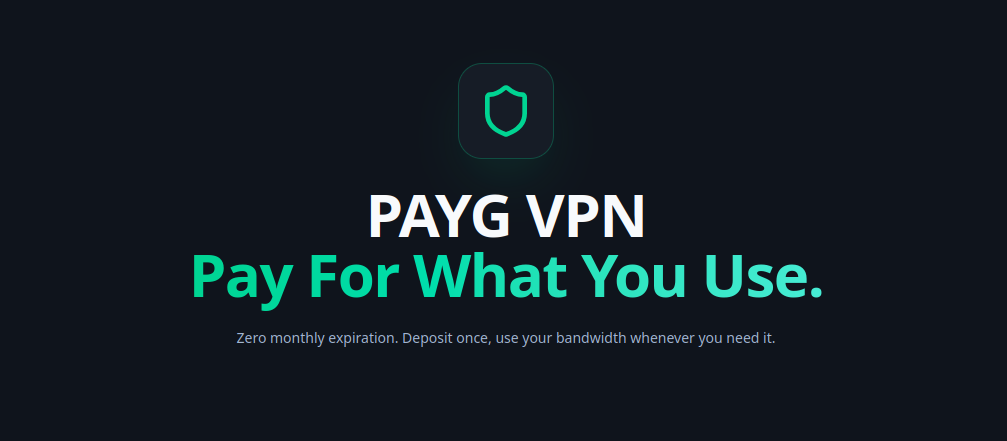
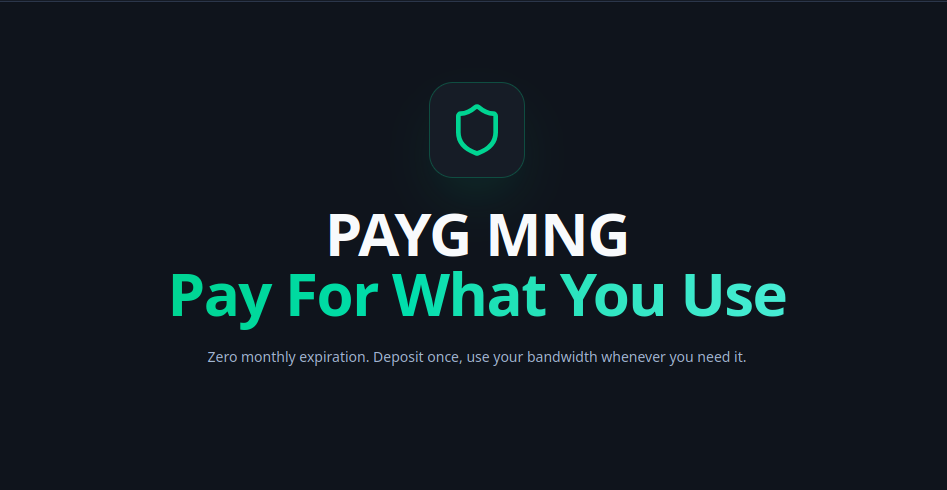
refactor(ui): sanitize naming
Replace branding and circumvention terminology with
Metered Network Gateway (MNG) and traffic routing designations across
portal views, metadata, and i18n dictionaries.

diff --git a/src/pages/Settings.tsx b/src/pages/Settings.tsx
@@ -66,7 +66,7 @@ export function Settings() {
 
   // Settings State
   const [settings, setSettings] = useState<SystemSettings>({
-    brand_name: 'PAYG VPN',
+    brand_name: 'PAYG MNG',
     default_currency: 'IRT',
     default_language: 'en',
     default_theme: 'dark',
@@ -85,7 +85,7 @@ export function Settings() {
     maintenance_message: 'System is undergoing scheduled maintenance.',
     billing_sync_interval: 5,
     xui_request_timeout: 15,
-    bot_username: 'PAYG_VPN_Bot',
+    bot_username: 'PAYG_MNG_Bot',
     bot_token: '',
     notify_seller_settlement: true,
     notify_server_offline: true,
@@ -443,11 +443,11 @@ export function Settings() {
                     </span>
                   </div>
 
-                  {/* Client VPN Status Toggle Cooldown (in Minutes) */}
+                  {/* Client Traffic Routing Status Toggle Cooldown (in Minutes) */}
                   <div className="space-y-1 p-3 bg-zinc-950/60 border border-zinc-850 rounded-xl">
                     <div className="flex items-center justify-between">
                       <label className="text-[11px] font-bold text-zinc-300 block">
-                        Client VPN Toggle Cooldown (Minutes)
+                        Client Traffic Routing Toggle Cooldown (Minutes)
                       </label>
                       <span className="text-[10px] font-mono text-emerald-400">
                         {settings.client_status_cooldown_minutes === 0 ? "0 (Immediate / No Cooldown)" : `${settings.client_status_cooldown_minutes} Min`}
@@ -467,7 +467,7 @@ export function Settings() {
                       placeholder="e.g. 60 (or 0 for immediate)"
                     />
                     <span className="text-[10px] text-zinc-500 block leading-relaxed mt-1">
-                      Duration in minutes a user must wait before toggling their VPN status in Account Settings. Set to <strong>0</strong> to allow clients to deactivate and activate their VPN connections immediately without any cooldown.
+                      Duration in minutes a user must wait before toggling their Traffic Routing status in Account Settings. Set to <strong>0</strong> to allow clients to deactivate and activate their Traffic Routing connections immediately without any cooldown.
                     </span>
                   </div>
 
@@ -620,7 +620,7 @@ export function Settings() {
                       placeholder="e.g. 50 (or 0 to disable)"
                     />
                     <span className="text-[10px] text-zinc-400 block leading-relaxed mt-1">
-                      Disables VPN connections early when client balance drops to <strong>&le; this threshold</strong> (e.g. 50 Toman) to prevent overage debt before delayed 3x-UI sync batches arrive. Remaining balance is preserved in their wallet. Set to <strong>0</strong> to disable.
+                      Disables Traffic Routing connections early when client balance drops to <strong>&le; this threshold</strong> (e.g. 50 Toman) to prevent overage debt before delayed 3x-UI sync batches arrive. Remaining balance is preserved in their wallet. Set to <strong>0</strong> to disable.
                     </span>
                   </div>
 
@@ -1064,7 +1064,7 @@ export function Settings() {
                     <div className="relative">
                       <input 
                         type="text"
-                        placeholder="e.g. PAYG_VPN_Bot (without @)"
+                        placeholder="e.g. PAYG_MNG_Bot (without @)"
                         value={settings.bot_username || ''}
                         onChange={(e) => {
                           const val = e.target.value.trim().replace(/^@/, '');

diff --git a/src/pages/ClientSettings.tsx b/src/pages/ClientSettings.tsx
@@ -146,7 +146,7 @@ export function ClientSettings() {
   };
 
   const handleCopyRevealedKeys = () => {
-    const textToCopy = `PAYG VPN RECOVERY KEYS FOR @${user?.username}\n=============================\n` + 
+    const textToCopy = `PAYG MNG RECOVERY KEYS FOR @${user?.username}\n=============================\n` + 
       revealedKeys.map((k, i) => `${i + 1}. ${k}`).join('\n');
     navigator.clipboard.writeText(textToCopy);
     setKeysCopied(true);
@@ -343,7 +343,7 @@ export function ClientSettings() {
           <div className="flex flex-col sm:flex-row sm:items-center justify-between gap-3">
             <div className="space-y-0.5">
               <span className="text-xs font-semibold text-zinc-300 block uppercase tracking-wider">
-                VPN Routing Status
+                Traffic Routing Routing Status
               </span>
               <div className="flex items-center space-x-2">
                 <span className={cn(
@@ -356,7 +356,7 @@ export function ClientSettings() {
                     "w-1 h-1 rounded-full mr-1.5",
                     !user?.is_self_suspended ? "bg-emerald-500" : "bg-amber-500"
                   )} />
-                  {!user?.is_self_suspended ? 'Active (Routing Enabled)' : 'Paused (VPN Disabled)'}
+                  {!user?.is_self_suspended ? 'Active (Routing Enabled)' : 'Paused (Traffic Routing Disabled)'}
                 </span>
               </div>
             </div>
@@ -380,17 +380,17 @@ export function ClientSettings() {
               ) : (
                 <UserCheck size={14} />
               )}
-              <span>{!user?.is_self_suspended ? 'Pause VPN Traffic' : 'Resume VPN Traffic'}</span>
+              <span>{!user?.is_self_suspended ? 'Pause Traffic Routing' : 'Resume Traffic Routing'}</span>
             </button>
           </div>
 
           {/* Explanation Notice */}
           <div className="p-3 bg-zinc-950/40 border border-zinc-855/60 rounded-xl text-xs text-zinc-400 font-normal leading-relaxed">
-            Pausing your VPN disables connection credentials on all nodes to halt data and battery usage. You remain logged in and can resume anytime. 
+            Pausing your Traffic Routing disables connection credentials on all nodes to halt data and battery usage. You remain logged in and can resume anytime. 
             {cooldownMinutes > 0 ? (
               <> There is a <strong className="text-zinc-200">{cooldownMinutes}-minute cooldown</strong> between status changes.</>
             ) : (
-              <> You can pause and resume your VPN <strong className="text-emerald-400">immediately with zero cooldown</strong>.</>
+              <> You can pause and resume your Traffic Routing Config <strong className="text-emerald-400">immediately with zero cooldown</strong>.</>
             )}
           </div>
 
@@ -566,7 +566,7 @@ export function ClientSettings() {
               <div>
                 <span className="text-xs font-medium text-zinc-200 block">Server Outage & Route Diagnostics</span>
                 <span className="text-[11px] text-zinc-500 block font-normal">
-                  Send alert if an active VPN server node undergoes maintenance.
+                  Send alert if an active Traffic Routing server node undergoes maintenance.
                 </span>
               </div>
               <label className="relative inline-flex items-center cursor-pointer select-none shrink-0">

diff --git a/src/pages/ClientConnectionGuides.tsx b/src/pages/ClientConnectionGuides.tsx
@@ -70,7 +70,7 @@ const stepsByPlatform = {
     },
     {
       title: 'Import Link into v2rayNG',
-      desc: 'Open the app, tap the ☰ menu in the top left, go to "Subscription Setting", tap the "+" button, name it (e.g., PAYG VPN), and paste your URL.'
+      desc: 'Open the app, tap the ☰ menu in the top left, go to "Subscription Setting", tap the "+" button, name it (e.g., PAYG MNG), and paste your URL.'
     },
     {
       title: 'Update Subscription Nodes',
@@ -96,7 +96,7 @@ const stepsByPlatform = {
     },
     {
       title: 'Start Connection',
-      desc: 'Turn on the main "Connection" toggle at the top of the screen and approve the VPN configuration prompt on your first attempt.'
+      desc: 'Turn on the main "Connection" toggle at the top of the screen and approve the Traffic Routing configuration prompt on your first attempt.'
     }
   ],
   Windows: [
@@ -106,7 +106,7 @@ const stepsByPlatform = {
     },
     {
       title: 'Add Subscription Group',
-      desc: 'Click "Subscription Group" (订阅分组) -> "Configure" -> "Add". Name it "PAYG VPN", paste your Universal Link in the URL field, and click OK.'
+      desc: 'Click "Subscription Group" (订阅分组) -> "Configure" -> "Add". Name it "PAYG MNG", paste your Universal Link in the URL field, and click OK.'
     },
     {
       title: 'Load Server Configurations',
@@ -136,7 +136,7 @@ const stepsByPlatform = {
 export function ClientConnectionGuides() {
   const [activeTab, setActiveTab] = useState<'Android' | 'iOS' | 'Windows' | 'Mac'>('Android');
   const [copiedLink, setCopiedLink] = useState(false);
-  const universalLink = "https://payg-vpn.net/sub/arash_df7g8h467ks8";
+  const universalLink = "https://payg.net/sub/user_df7g8h467ks8";
 
   const handleCopyLink = () => {
     navigator.clipboard.writeText(universalLink);

diff --git a/src/pages/LandingPage.tsx b/src/pages/LandingPage.tsx
@@ -69,7 +69,7 @@ export function LandingPage() {
           <div className="w-8 h-8 rounded-xl bg-zinc-900 border border-zinc-800 text-emerald-400 flex items-center justify-center shadow-xs">
             <Shield size={18} />
           </div>
-          <span className="text-base font-extrabold tracking-tight text-zinc-100">PAYG VPN</span>
+          <span className="text-base font-extrabold tracking-tight text-zinc-100">PAYG MNG</span>
         </div>
 
         <div className="flex items-center space-x-2.5 sm:space-x-3">
@@ -124,9 +124,9 @@ export function LandingPage() {
         </div>
 
         <h1 className="text-3xl sm:text-5xl lg:text-6xl font-black tracking-tight text-zinc-50 max-w-3xl mx-auto leading-tight sm:leading-none">
-        PAYG VPN <br />
+        PAYG MNG <br />
           <span className="text-transparent bg-clip-text bg-gradient-to-r from-emerald-400 to-teal-300">
-            Pay For What You Use.
+            Pay For What You Use
           </span>
         </h1>
 
@@ -298,7 +298,7 @@ export function LandingPage() {
 
       {/* Footer */}
       <footer className="border-t border-zinc-800/60 mt-12 py-6 text-center text-xs text-zinc-500 max-w-5xl mx-auto px-4 flex flex-col sm:flex-row items-center justify-between gap-2 font-mono">
-        <p>© {new Date().getFullYear()} PAYG VPN Platform. All rights reserved.</p>
+        <p>© {new Date().getFullYear()} PAYG MNG Platform. All rights reserved.</p>
         <div className="flex items-center space-x-3">
           <button type="button" onClick={() => navigate('/login')} className="hover:text-zinc-300">Log In</button>
           <span>•</span>

diff --git a/src/services/authService.ts b/src/services/authService.ts
@@ -1,4 +1,3 @@
-// vpn-payg-frontend/src/services/authService.ts
 import { api } from './api';
 import { Role } from '../types';
 
@@ -11,7 +10,7 @@ export interface UserProfile {
   language?: string;           // Persisted user language preference (e.g. 'en', 'fa', 'ru')
   billing_currency?: 'IRT' | 'USD'; // Immutable billing currency (Option B)
   is_active: boolean;          // Admin account status (True = Active, False = Admin Locked)
-  is_self_suspended?: boolean; // Client self-service VPN pause status
+  is_self_suspended?: boolean; // Client self-service Traffic Routing pause status
   must_change_password?: boolean;
   status_toggled_at?: string;
   created_at?: string;
@@ -335,7 +334,7 @@ export const authService = {
     ]);
 
     return {
-      brand_name: configRes.brand_name || 'PAYG VPN',
+      brand_name: configRes.brand_name || 'PAYG MNG',
       default_currency: configRes.default_currency || 'IRT',
       default_language: configRes.default_language || 'en',
       default_theme: configRes.default_theme || 'dark',
@@ -365,7 +364,7 @@ export const authService = {
       bank_cards: financeRes.admin_bank_cards || [],
       crypto_wallets: financeRes.admin_crypto_wallets || [],
       admin_payment_instructions: financeRes.admin_payment_instructions || '',
-      bot_username: tgBotRes?.bot_username || 'PAYG_VPN_Bot',
+      bot_username: tgBotRes?.bot_username || 'PAYG_MNG_Bot',
       bot_token: tgBotRes?.bot_token || '',
       notify_seller_settlement: true,
       notify_server_offline: true,

diff --git a/src/pages/ClientOverview.tsx b/src/pages/ClientOverview.tsx
@@ -68,7 +68,7 @@ export function ClientOverview() {
   const [walletBuckets, setWalletBuckets] = useState<WalletBucketItem[]>([]);
   const [loadingBalance, setLoadingBalance] = useState<boolean>(true);
 
-  // 2. VPN Configs & Subscription
+  // 2. Traffic Routing Configs & Subscription
   const [configs, setConfigs] = useState<UserConfigItem[]>([]);
   const [subscriptionUrl, setSubscriptionUrl] = useState<string>('');
   const [copiedIdx, setCopiedIdx] = useState<number | null>(null);
@@ -676,7 +676,7 @@ export function ClientOverview() {
               <div className="text-center space-y-1 text-zinc-500 text-xs font-mono">
                 <Radio size={22} className="mx-auto text-zinc-700 mb-1" />
                 <p>Waiting for connection...</p>
-                <p className="text-[10px] text-zinc-600">Connect to VPN to detect ISP</p>
+                <p className="text-[10px] text-zinc-600">Connect to Traffic Routing config to detect ISP</p>
               </div>
             )}
           </div>
@@ -820,7 +820,7 @@ export function ClientOverview() {
 
             <div className="space-y-0.5 text-left pr-4">
               <h4 className="text-xs font-bold text-zinc-100 uppercase tracking-wider">{qrModalTitle}</h4>
-              <p className="text-xs text-zinc-400">Scan with your VPN application</p>
+              <p className="text-xs text-zinc-400">Scan with your Traffic Routing application</p>
             </div>
 
             <div className="flex justify-center">

diff --git a/src/pages/ClientServers.tsx b/src/pages/ClientServers.tsx
@@ -329,7 +329,7 @@ export function ClientServers() {
         <div>
           <h2 className="text-xl font-bold tracking-tight text-zinc-100 flex items-center gap-2">
             <Server size={20} className="text-emerald-400" />
-            <span>VPN Server Configurations</span>
+            <span>Traffic Routing Server Configurations</span>
           </h2>
           <p className="text-xs text-zinc-400 font-normal mt-0.5">
             Real-time proxy nodes automatically synchronized every 30 seconds.
@@ -368,7 +368,7 @@ export function ClientServers() {
             </h3>
           </div>
           <p className="text-xs text-zinc-400 font-normal">
-            Import this single link to automatically synchronize all active server nodes into your VPN client.
+            Import this single link to automatically synchronize all active server nodes into your Traffic Routing client.
           </p>
         </div>
 
@@ -682,7 +682,7 @@ export function ClientServers() {
             <Sparkles size={20} className="mx-auto text-zinc-600 mb-1" />
             <p className="text-xs font-semibold text-zinc-300">No Active Server Nodes</p>
             <p className="text-xs text-zinc-500">
-              Top up your wallet to activate VPN configurations for your preferred countries.
+              Top up your wallet to activate Traffic Routing configurations for your preferred countries.
             </p>
           </div>
         )}

diff --git a/src/components/Layout.tsx b/src/components/Layout.tsx
@@ -68,7 +68,7 @@ export function Layout({ children, role, setRole, activeTab, setActiveTab, onSig
   const clientLinks = [
     { name: 'Overview', icon: LayoutDashboard, path: '/client' },
     { name: 'Sellers', icon: Users, path: '/client/sellers' },
-    { name: 'VPN Servers', icon: Server, path: '/client/vpn-servers' },
+    { name: 'Traffic Routing Servers', icon: Server, path: '/client/vpn-servers' },
     { name: 'Top-up Wallet', icon: Wallet, path: '/client/wallet' },
     { name: 'Payment Histories', icon: History, path: '/client/history' },
     { name: 'Connection Guides', icon: Rocket, path: '/client/guides' },
@@ -102,7 +102,7 @@ export function Layout({ children, role, setRole, activeTab, setActiveTab, onSig
             <div className="p-1.5 rounded-xl bg-emerald-500/10 border border-emerald-500/20 text-emerald-400">
               <Shield size={22} />
             </div>
-            <span className="text-lg font-extrabold tracking-tight text-zinc-100">PAYG VPN</span>
+            <span className="text-lg font-extrabold tracking-tight text-zinc-100">PAYG MNG</span>
           </div>
           <button 
             className="lg:hidden p-1 rounded-lg text-zinc-400 hover:text-zinc-100 transition-colors"

diff --git a/src/pages/SignUp.tsx b/src/pages/SignUp.tsx
@@ -231,7 +231,7 @@ export function SignUp({ onNavigateToSignIn }: SignUpProps) {
   };
 
   const handleCopyAllKeys = async () => {
-    const textToCopy = `PAYG VPN RECOVERY KEYS FOR @${signupUser?.username}\n=============================\n` + 
+    const textToCopy = `PAYG MNG RECOVERY KEYS FOR @${signupUser?.username}\n=============================\n` + 
       recoveryKeys.map((k, i) => `${i + 1}. ${k}`).join('\n') + 
       `\n=============================\nKeep these keys safe. They are required for account recovery.`;
 
@@ -342,7 +342,7 @@ export function SignUp({ onNavigateToSignIn }: SignUpProps) {
             <div className="inline-flex items-center justify-center w-14 h-14 rounded-2xl bg-zinc-900 border border-zinc-800 text-emerald-400 mb-1 shadow-inner">
               <Shield size={32} />
             </div>
-            <h1 className="text-3xl font-black tracking-tight text-zinc-50">PAYG VPN</h1>
+            <h1 className="text-3xl font-black tracking-tight text-zinc-50">PAYG MNG</h1>
             <p className="text-sm text-zinc-400 font-normal max-w-xs mx-auto">
               Create an account to start routing your traffic securely
             </p>

diff --git a/src/pages/ClientSupportTickets.tsx b/src/pages/ClientSupportTickets.tsx
@@ -1,4 +1,3 @@
-// vpn-payg-frontend/src/pages/ClientSupportTickets.tsx
 import React, { useState, useRef, useEffect } from 'react';
 import { useNavigate } from 'react-router-dom';
 import { 
@@ -490,7 +489,7 @@ export function ClientSupportTickets() {
   };
 
   const handleAttachDiagnosticLog = () => {
-    const textLog = `[PAYG VPN CLIENT DIAGNOSTIC LOG]
+    const textLog = `[PAYG MNG CLIENT DIAGNOSTIC LOG]
 Client ID: Active Session
 Timestamp: ${new Date().toISOString()}
 Connected Server Node: ${activeTicket?.relatedServer || 'Primary Gateway'}
@@ -702,7 +701,7 @@ Status: Operational Payload`;
                   type="button"
                   onClick={() => navigate('/client/vpn-servers')}
                   className="p-2 bg-zinc-900 hover:bg-zinc-850 text-zinc-400 hover:text-zinc-200 border border-zinc-800 rounded-xl transition-colors hidden sm:flex cursor-pointer"
-                  title="View VPN Servers List"
+                  title="View Traffic Routing Servers List"
                 >
                   <Server size={15} />
                 </button>

diff --git a/src/components/common/UnallocatedNoticeModal.tsx b/src/components/common/UnallocatedNoticeModal.tsx
@@ -103,7 +103,7 @@ export function UnallocatedNoticeModal() {
         {!isServerReplaced && (
           <div className="space-y-1.5 text-[11px] text-zinc-400">
             <span className="font-semibold text-zinc-200 block">Available Options:</span>
-            <p>• This balance is available in your wallet for all active VPN server locations.</p>
+            <p>• This balance is available in your wallet for all active Traffic Routing server locations.</p>
             <p>• You can also request a bank refund back to your Shetab card at any time.</p>
           </div>
         )}
@@ -118,7 +118,7 @@ export function UnallocatedNoticeModal() {
           />
           <span className="leading-tight">
             {isServerReplaced
-              ? 'I understand I must update the subscription link in my VPN application.'
+              ? 'I understand I must update the subscription link in my Traffic Routing application.'
               : 'I have read and understood this notice completely.'}
           </span>
         </label>

diff --git a/src/components/common/Sidebar.tsx b/src/components/common/Sidebar.tsx
@@ -156,7 +156,7 @@ export const Sidebar: React.FC<SidebarProps> = ({ isOpen, onClose }) => {
           <div
             onClick={() => handleNavigation('/')}
             className="flex items-center space-x-2.5 rtl:space-x-reverse cursor-pointer group min-w-0"
-            title="PAYG VPN"
+            title="PAYG MNG"
           >
             <div className="w-7 h-7 rounded-lg bg-zinc-900 border border-zinc-800 text-emerald-400 flex items-center justify-center shrink-0">
               <Shield size={16} />
@@ -165,7 +165,7 @@ export const Sidebar: React.FC<SidebarProps> = ({ isOpen, onClose }) => {
               "text-sm font-bold tracking-tight text-zinc-100 transition-all truncate",
               isCollapsed && "lg:hidden"
             )}>
-              PAYG VPN
+              PAYG MNG
             </span>
           </div>
 
